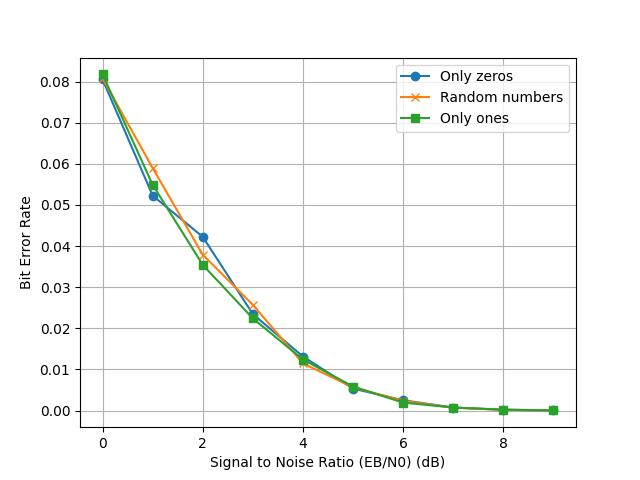
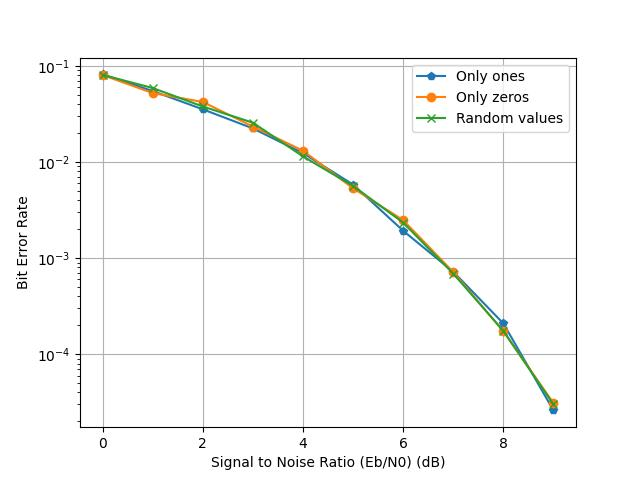
Rapport and new log graphs yay !

diff --git a/Modulateur/simulator.c b/Modulateur/simulator.c
@@ -147,9 +147,6 @@ void codec_repetition_soft_decode8(const int8_t *L8_N, uint8_t *V_K, size_t K, s
         if (avg < 0) V_K[i] = 1;
         else V_K[i] = 0;
     }
-    printf("soft decode result w fixed point: ");
-    print_array(V_K, K);
-    printf("\n");
 }
 
 void codec_repetition_hard_decode (const float* L_N, uint8_t* V_N, size_t k, size_t n_reps) {
@@ -176,9 +173,6 @@ void codec_repetition_soft_decode (const float* L_N, uint8_t *V_N, size_t k, siz
         if (avg < 0) V_N[i] = 1;
         else V_N[i] = 0;
     }
-    printf("soft decode result NORMAL: ");
-    print_array(V_N, k);
-    printf("\n");
 }
 
 void codec_repetition_hard_decode8_neon(const int8_t *L8_N, uint8_t *V_K, size_t K, size_t n_reps) {
@@ -415,8 +409,8 @@ int main( int argc, char** argv) {
             cycles = ((end_step-begin_step)*1000000)/CLOCKS_PER_SEC;
             avg_time[0] += cycles;
 	    
-            min_time[0]  = ((min_time[0] == INFINITY || cycles < min_time[0]) ? cycles : min_time[0]);
-            max_time[0]  = ((max_time[0] == -INFINITY || cycles > max_time[0]) ? cycles : max_time[0]);
+            min_time[0]  = ((cycles < min_time[0]) ? cycles : min_time[0]);
+            max_time[0]  = ((cycles > max_time[0]) ? cycles : max_time[0]);
 	             
             total_time_func += cycles;
             #endif
@@ -430,8 +424,8 @@ int main( int argc, char** argv) {
             end_step = clock(); 
             cycles = ((end_step-begin_step)*1000000)/CLOCKS_PER_SEC;
             avg_time[1] += cycles;
-            min_time[1]  = ((min_time[1] == INFINITY || cycles < min_time[1]) ? cycles : min_time[1]);
-            max_time[1]  = ((max_time[1] == -INFINITY || cycles > max_time[1]) ? cycles : max_time[1]);
+            min_time[1]  = ((cycles < min_time[1]) ? cycles : min_time[1]);
+            max_time[1]  = ((cycles > max_time[1]) ? cycles : max_time[1]);
             total_time_func += cycles;
             #endif
 
@@ -444,8 +438,8 @@ int main( int argc, char** argv) {
             end_step = clock(); 
             cycles = ((end_step-begin_step)*1000000)/CLOCKS_PER_SEC;
             avg_time[2] += cycles;
-            min_time[2]  = ((min_time[2] == INFINITY || cycles < min_time[0]) ? cycles : min_time[0]);
-            max_time[2]  = ((max_time[2] == -INFINITY || cycles > max_time[0]) ? cycles : max_time[0]);
+            min_time[2]  = ((cycles < min_time[2]) ? cycles : min_time[2]);
+            max_time[2]  = ((cycles > max_time[2]) ? cycles : max_time[2]);
             total_time_func += cycles;
             #endif
             
@@ -458,8 +452,8 @@ int main( int argc, char** argv) {
             end_step = clock(); 
             cycles = ((end_step-begin_step)*1000000)/CLOCKS_PER_SEC;
             avg_time[3] += cycles;
-            min_time[3]  = ((min_time[3] == INFINITY || cycles < min_time[0]) ? cycles : min_time[0]);
-            max_time[3]  = ((max_time[3] == -INFINITY || cycles > max_time[0]) ? cycles : max_time[0]);
+            min_time[3]  = ((cycles < min_time[3]) ? cycles : min_time[0]);
+            max_time[3]  = ((cycles > max_time[3]) ? cycles : max_time[0]);
             total_time_func += cycles;
             #endif
 
@@ -472,8 +466,8 @@ int main( int argc, char** argv) {
             end_step = clock(); 
             cycles = ((end_step-begin_step)*1000000)/CLOCKS_PER_SEC;
             avg_time[4] += cycles;
-            min_time[4]  = ((min_time[4] == INFINITY || cycles < min_time[0]) ? cycles : min_time[0]);
-            max_time[4]  = ((max_time[4] == -INFINITY || cycles > max_time[0]) ? cycles : max_time[0]);
+            min_time[4]  = ((cycles < min_time[4]) ? cycles : min_time[0]);
+            max_time[4]  = ((cycles > max_time[4]) ? cycles : max_time[0]);
             total_time_func += cycles;
             #endif
 
@@ -489,8 +483,8 @@ int main( int argc, char** argv) {
             end_step = clock(); 
             cycles = ((end_step-begin_step)*1000000)/CLOCKS_PER_SEC;
             avg_time[5] += cycles;
-            min_time[5]  = ((min_time[5] == INFINITY || cycles < min_time[0]) ? cycles : min_time[0]);
-            max_time[5]  = ((max_time[5] == -INFINITY || cycles > max_time[0]) ? cycles : max_time[0]);
+            min_time[5]  = ((cycles < min_time[5]) ? cycles : min_time[0]);
+            max_time[5]  = ((cycles > max_time[5]) ? cycles : max_time[0]);
             total_time_func += cycles;
             #endif
 
@@ -503,8 +497,8 @@ int main( int argc, char** argv) {
             end_step = clock(); 
             cycles = ((end_step-begin_step)*1000000)/CLOCKS_PER_SEC;
             avg_time[6] += cycles;
-            min_time[6]  = ((min_time[6] == INFINITY || cycles < min_time[0]) ? cycles : min_time[0]);
-            max_time[6]  = ((max_time[6] == -INFINITY || cycles > max_time[0]) ? cycles : max_time[0]);
+            min_time[6]  = ((cycles < min_time[6]) ? cycles : min_time[6]);
+            max_time[6]  = ((cycles > max_time[6]) ? cycles : max_time[6]);
             total_time_func += cycles;
             #endif
 

diff --git a/Modulateur/graphs.py b/Modulateur/graphs.py
@@ -8,17 +8,18 @@ import pandas
 
 ## Files = (namefile, legend, print format)
 ## with print format being first the dot style (x, +, . ...) and then the line style (usually - for continuous or -- for dashed)
-files = [("sim_hard_random.csv", "Random", "o-"),
+files = [ 
          ("sim_hard.csv", "Float", "p-"),
          ("sim_hard8.csv", "Fixed", "s-"),
-         ("sim_hard_neon.csv", "Neon", "x-")
+         ("sim_hard_neon.csv", "Neon", "x-"),
+         ("sim_hard_random.csv", "Random", ".-")
 ]
 
 output = "hard_comp"
 xlabel = "Signal to Noise Ratio (Eb/N0) (dB)"  
-ylabel = "Frame Error Rate"
+ylabel = "Bit Error Rate"
 x = "Eb/No"
-y = "FER"
+y = "BER"
 
 for elem in files:
     sim = pandas.read_csv(elem[0])

diff --git a/Modulateur/TP4_notes.md b/Modulateur/TP4_notes.md
@@ -1,33 +1,106 @@
-# Concernant la génération
-- On a constaté que pour la simulation hard, on prend beaucoup plus de temps à traiter uniquement des 0 comparé à random, qui est aussi + long que uniquement des 1. On compare donc avec que des 0 et que des 1.
-- Le temps est affiché en microsecondes
-- On constate que le nombre d'erreurs est assez similaire peu importe ce qu'on génère, sauf pour la simulation en hard-decode (peut-être un biais de décodage en hard, pour un nombre pair de répétitions ? Peut être un défaut d'implémentation ? Peut-être des moins bonnes performances ?)
+# TP4 PPSE
+DEBRIE Maëla
+WILCOX Grace
+
+## Execution
+To execute our code, you need to install the GSL library on your computer : 
+- `sudo apt-get install libgsl-dev` on Linux and on the Jetson
+- On Mac, `brew install gsl` seems to be enough
+
+To compile : `gcc simulator.c -o simulator.x -Wall -std=c99 -I/usr/include/gsl -lgsl -lgslcblas -lm <-DENABLE_STATS>`. Our Makefile doesn't seem to work on the Jetson for now.
+To simulate : `./simulator.x -m [min_SNR float] -M [max_SNR float] -s [step_val float] -e [f_max uint] -K [info_bits uint] -N [codeword_size uint] -D ["rep-hard"|"rep-soft" string] -f [sim_name string] `
+
+## Task 0 - Throughput
+To increase accuracy, all of our times will now be written in μs. We then compute the throughput with `sim_thr = (float)n_frame_simulated * info_bits / elapsed`. 
+
+## Task 1 - Block stats
+We change our code to be able to compute stats per block.
+- When `-DENABLE_STATS` is written on compile line, stats per block will be activated.
+- We test this in our code with 
+```
+#ifdef ENABLE_STATS 
+... 
+#end if
+``` 
+- When enabled, we instanciate some more variables, and we measure time before calling the block function, as well as after it returns. We then compute the elapsed time.
+- We keep track of the min and the max by storing them in an array and comparing after each iteration. We initialize those arrays at value +Infinity (for the min array) and -Infinity (for the max array).
+- We keep track of the average by adding the time for each iteration, then dividing it by the number of iteration for this SNR.
+- We compute the percentage by dividing by the total elapsed time, excluding the time spent computing.
+- We store those newly computed data in a separate .csv, appending "_stats" to the name specified in the command line. **Beware, this CSV has many columns and PPython MatPlotLib / Pandas parses it wrong**. 
+
+## Task 2 - Source all zeros
+We just take our previous function, modyfing it to remove the rand().  
+We have to change the function to parse arguments to `getopt_long` to adapt to this change.
+
+How to use `getopt()` :
+- We use getopt to parse command line arguments. An option is a parameter beginning with '-' (different from only "-" or starting with "--").
+- The signature is `getopt (argc, argv, format)`.
+  - Format is a string containing all valid options (as letters) to be parsed. 
+  - If one of those chars is followed by a ':', it means it expects an argument after. 
+  - It is the case for all of our arguments. The following argument is then stored in optarg variable.
+
+Changes for `getopt_long()`
+- For short commands (`-a`), nothing changes.
+- To parse long commands, we need more variables :
+  - `struct option zero_opt[]` is an array of `struct option`. It stores every long option we can encounter.
+  - A `struct option` is {name, is_arg, flag, val} :
+    - name is the name of the long command, without the leading "--"
+    - is_arg is one of "no_argument", "required_argument" or "optional_argument". The meaning is obvious.
+    - We do not use flag here.
+    - val is the value to return when we encounter a long command. It is this value that we need to add in our switch case.
+
+While testing, we note that for some reason, it is way longer to simulate the hard decoder for only zero compared to random numbers. While testing, it seems that only ones is quicker that random numbers.  
+We can see that for our hard decoder, only zeros has a better decoding performance, while only ones does worse. This is because our hard decision is biased in favor of zeros when the number of repetitions is even : `(average<0?1:0)`. But for the soft decoder, the performances are the same. 
+_For hard decode :_
+![comparaison BER](Task2/decode_sim1.jpg)
+_For soft decode :_
 ![comparaison BER](Task2/decode_sim2.jpg)
-- On constate que le thoughput est meilleur quand on génère toujours la même valeur. Pourquoi? On génère toujours la même chose donc ca me semble bizarre
+
+In terms of throughput, we find that it is in fact quicker to generate only zeros or only ones compared to random, probably because of the cost of computing a random number and dividing it by 2.
+
+
 ![comparaison thoughput](Task2/thoughput_sim2.jpg)
 
-# Concernant la modulation
-- les temps sont toujours en microseconds
-- le thoughput est équivalent , parce que changer la manière de moduler ne change pas la vitesse de traitement
+## Task 3 - Modulate all ones
+We proceed the same way as we did with the generator.  
+We find that the thoughput is the same, because the cost of computing `(CN[n-1]?-1:1)` is negligeable (no branch).  
+
 ![thoughput](Task3/thoughput_sim2.jpg)
-- les performances de décodage sont largement réduites, puisqu'on fait totalement fi de l'entrée et on force une modulation vers 1. De manière logique, on a fait une mauvaise modulation sur environ la moitié des bits, donc on a un taux d'erreur de 1/2
-![decode](Task3/decode_sim2.jpg)
-- Pour référence, on compare avec à la fois une génération de 0 et une modulation de 1. On constate alors qu'il n'y a aucun effet sur les performances de décodage (encore une fois, sauf pour la décision dure -> pourquoi?)
-![decode](Task3/decode_both_sim2.jpg)
 
-# Task 5 
-## Sim 1
-S5F4
+But we find that the decoding performances are way worse, always at 0.5 BER. That is because we ignored the original message, so apprix. half of the bits are modulated wrong ; to really see the impact on decoding, we combine it with the all-zero source. We then find once again the decoding performances seen at Task 2.
 
--> s=8 on sature toujours
+![decode_source_random](Task3/decode_sim2.jpg)
 
-## Sim2
-S5F2
+![decode_source_zero](Task3/decode_both_sim2.jpg)
 
-## Sim 3 & 4
-S5F3
+## Task 4 - Fixed point
+**TODO GRACE**
+To change it through the command line, because the 2 function signatures are different, we choose to have 2 functions pointers and a flag to tell us which one to use. When we detect through command line that we want to use a fixed-point function, or that we specified a --qf parameter, this flag is set to 1, meaning we want to use the fixed-point version. Using the --qs parameter have no effect on this flag if we do not specify that we want to use the fixed-point version of the function.
 
-## Sim 5
-S5F4
+## Task 5 - Decoding performances in fixed-point
+We run all the possible combinations of f and s for each sim, then we trace the graphs for each sim to determine visually which combination is the best one. We note that with S = 8, we are always saturated because we consider signed values, so we only consider S values below 8. We proceed by elimination, and we find those values :
+- Sim 1 : S = 5, F = 4
+- Sim 2 : S = 5, F = 2
+- Sim 3 : S = 5, F = 3
+- Sim 4 : S = 5, F = 3
+- Sim 5 : S = 5, F = 4
 
+## Task 6 - SIMD
+We begin by changing the command line parser to adapt to those new neon options.  
+Then we implement the hard and soft decoder :
+
+**Hard decoder**
+K is a multiple of 16, so we will do K/16 iterations of this treatment.  
+
+We iterate on each part of the array (`array_nb = K/16`), and on each repetition of this part of the array (`n_reps`), we do :
+- Loading this part of the array
+- Hard-deciding it 
+- Because the `vcltzq_s8` returns -1s and 0s, we do a little treatment to get -1 if we had below 0 and +1 if we had above 0.
+- We then sum this array into a temporary result
+- Once the sum is done, we have the results of the majority vote. We once again do a `vcltzq_s8` to determine if the sum was below 0 (meaning we should infer a 1) or above 0 (meaning we should infer a 0).
+- `vcltzq_s8` returns -1 when we should infer a 1 - we just have to do a "and" between this -1 (0b11111111) and a 1 (0b00000001) to get a 1 back. The 0s are not affected.
+
+When doing the simulation with the Neon version, the fixed-point version, the original version as well as the randomized original version (comparison point), we see that all are approximately the same results. 
+
+**todo throughput comparison**
 
